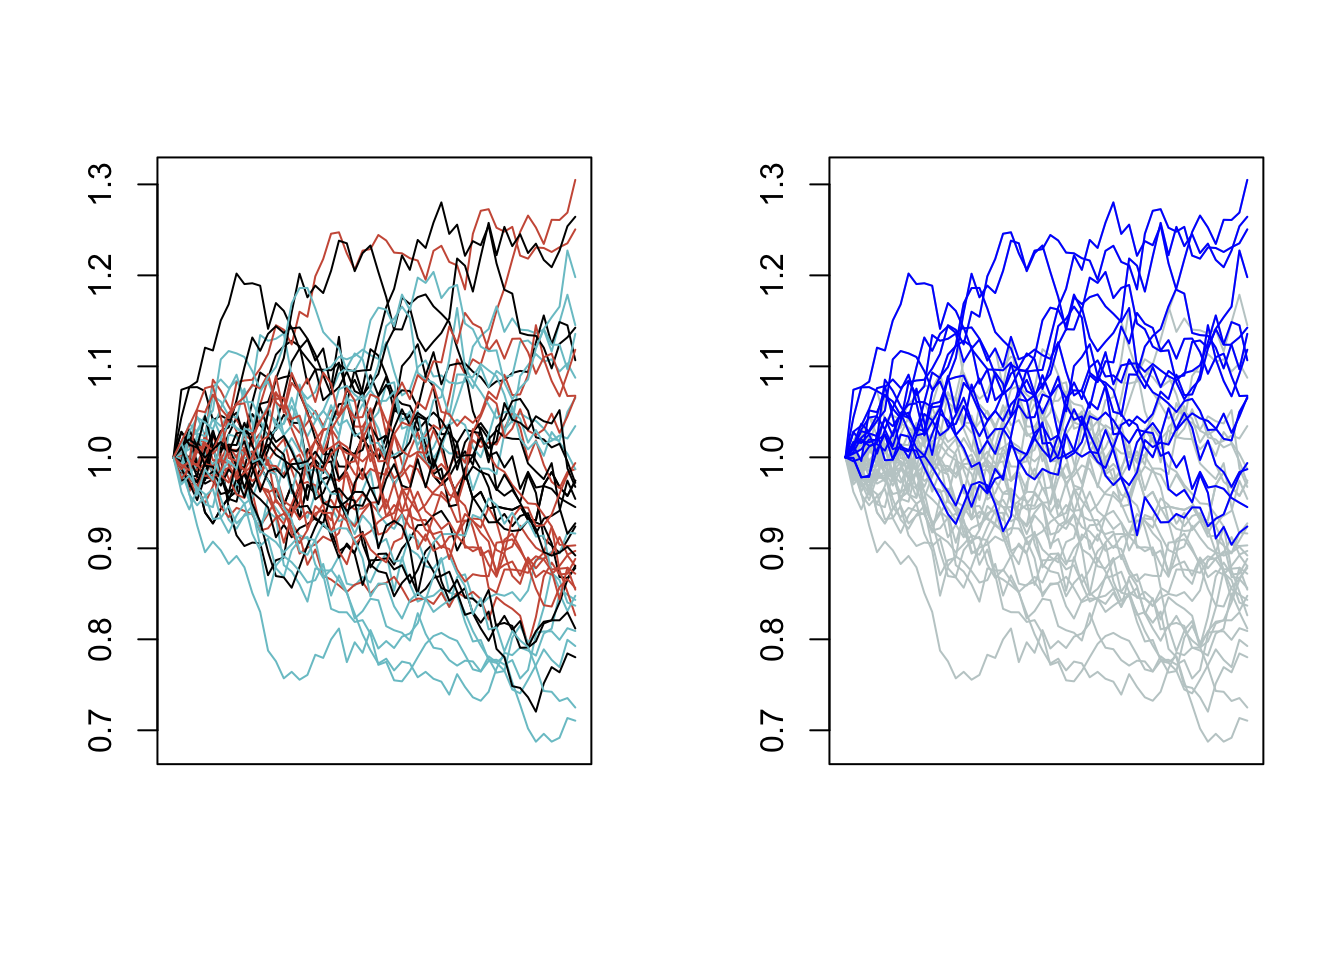
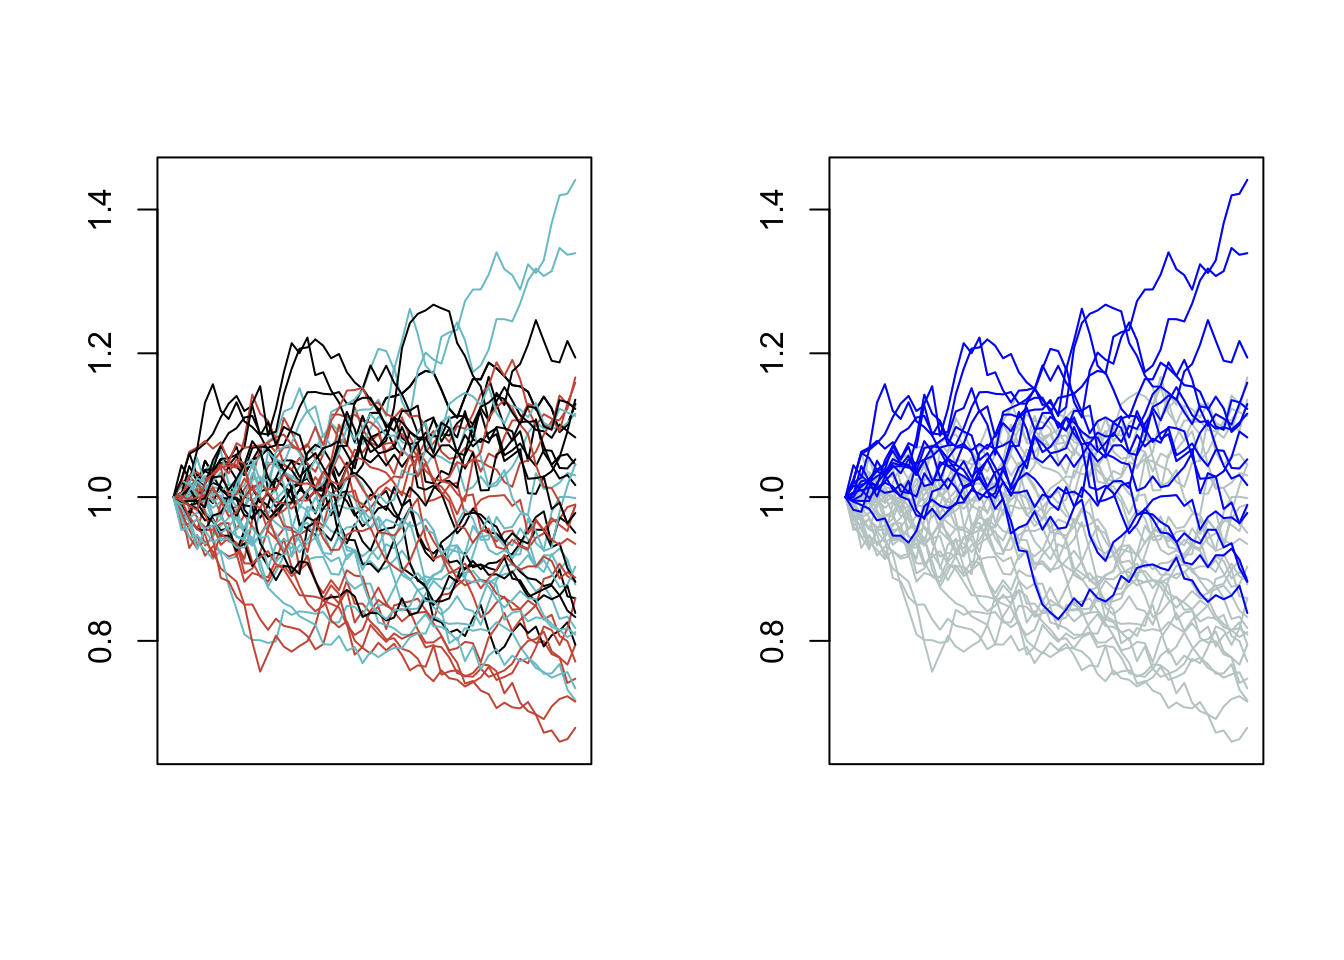
Added payoff
Routine update

diff --git a/docs/payoff.html b/docs/payoff.html
@@ -174,7 +174,7 @@ derived from public sources</a></li>
 diffusions =<span class="st">  </span><span class="kw">aSampleSpotT</span>(<span class="dv">1</span>, <span class="dv">0</span>, <span class="dv">0</span>, <span class="dv">0</span>, <span class="fl">0.2</span>, <span class="dv">1</span>, <span class="dv">50000</span>)
 payoffs =<span class="st"> </span><span class="kw">pmax</span>(<span class="dv">0</span>, diffusions -<span class="st"> </span>strikeK)
 <span class="kw">mean</span>(payoffs)</code></pre></div>
-<pre><code>## [1] 0.07995999</code></pre>
+<pre><code>## [1] 0.08003388</code></pre>
 <p>Comparing the result to the Black Scholes solution:</p>
 <p><span class="math display">\[
     \mathrm C(\mathrm S,\mathrm t)= \mathrm N(\mathrm d_1)\mathrm S - \mathrm N(\mathrm d_2) \mathrm K \mathrm e^{-rt}
@@ -241,29 +241,29 @@ for (i in <span class="dv">2</span>:numSteps)
 Figure 3.1: 2 separate trajectories; Left path ends below the strike and receives a 10% payout, the right path does not pay any. Blue line denotes the strike barrier at 110% of initial spot.
 </p>
 </div>
-<p>Pricing such a product is always similar to that of a call option, except when the option is in the money, it pays the digit coupon instead of the performance of the underlying minus its strike. We see it cost about 3%.</p>
+<p>Pricing this payoff is similar to that of a call option, except when the option is in the money, it pays the digit coupon instead of the performance of the underlying minus its strike. We see it cost about 3%.</p>
 <div class="sourceCode"><pre class="sourceCode r"><code class="sourceCode r">digitK =<span class="st"> </span><span class="fl">1.1</span>
 digitCpn =<span class="st"> </span><span class="fl">0.1</span>
 digitPays =<span class="st"> </span>(diffusions &gt;<span class="st"> </span>digitK)*digitCpn
 <span class="kw">mean</span>(digitPays)</code></pre></div>
-<pre><code>## [1] 0.028064</code></pre>
+<pre><code>## [1] 0.028316</code></pre>
 </div>
 <div id="pdi" class="section level3">
 <h3><span class="header-section-number">3.1.2</span> Put Down and In</h3>
-<p>Like the digital <em>down and in</em> option above, a <em>put down and in</em> option knocks in when an underlying ends below a certain barrier. However, when the condition is satisfied, the put comes into existence and so the payoff is that of a vanilla put option. Therefore we need also need to know the put strike in order to determine the payoff.</p>
-<p>Let’s say we <strong>sell</strong> a 1y <em>put down and in</em> on the same underlying as before, with european (at maturity) down and in barrier 80% and strike 100%. For a change of pace we proceed to the price before visualising what a sample path and its payoff is.</p>
+<p>Like the digital <em>down and in</em> option above, a <em>put down and in</em> option knocks in when an underlying ends below a certain barrier. However, when the condition is satisfied, the put comes into existence and so the payoff is that of a vanilla put option. We therefore need to be given the put strike in order to determine the payoff.</p>
+<p>Let’s say we <strong>sell</strong> a 1y <em>put down and in</em> on the same underlying as before, with european (at maturity) down and in barrier 80% and put strike 100%. For a change of pace we proceed to the price before visualising what a sample path and its payoff is.</p>
 <div class="sourceCode"><pre class="sourceCode r"><code class="sourceCode r">pdiK =<span class="st"> </span><span class="dv">1</span>
 eki80Barrier =<span class="st"> </span><span class="fl">0.8</span>
 pdi80Hit =<span class="st"> </span>diffusions &lt;=<span class="st"> </span>eki80Barrier
 putPays =<span class="st"> </span><span class="kw">pmax</span>(<span class="dv">0</span>, pdiK -<span class="st"> </span>diffusions)
 pdi80Pays =<span class="st"> </span>putPays*<span class="kw">as.double</span>(pdi80Hit)
 <span class="kw">mean</span>(-<span class="dv">1</span> *<span class="st"> </span>pdi80Pays) <span class="co"># price of short pdi with eki = 80% and strike = 100%</span></code></pre></div>
-<pre><code>## [1] -0.04261739</code></pre>
+<pre><code>## [1] -0.04257575</code></pre>
 <p>We will use the convention of a negative premium for investor <strong>receiving</strong> the premium instead of paying the premium.</p>
 <p>If we think of the knock-in feature on a short put as <em>protection</em>, that is the option seller sold a put that will not be in the money unless the underlying has first broken the knock in barrier, then we should expect a <em>put down and in</em> with european barrier at 80% to bring less value than one with barrier at 90%. Both of which has to be cheaper than a straight put, or a put without knock-in feature.</p>
 <div class="sourceCode"><pre class="sourceCode r"><code class="sourceCode r">pdi_comparison =<span class="st"> </span><span class="kw">c</span>(<span class="kw">mean</span>(-<span class="dv">1</span> *<span class="st"> </span>pdi80Pays), <span class="kw">mean</span>(-<span class="dv">1</span> *<span class="st"> </span>pdi90Pays), <span class="kw">mean</span>(-<span class="dv">1</span> *<span class="st"> </span>putPays))
 pdi_comparison</code></pre></div>
-<pre><code>## [1] -0.04261739 -0.06931353 -0.07973939</code></pre>
+<pre><code>## [1] -0.04257575 -0.06940946 -0.07956403</code></pre>
 <p>We see the seller of the different puts receives more if he sold a <em>put down and in</em> with higher knock-in barrier, or when there is no barrier (a put). Looking consistent!</p>
 <p>By the same argument, a <em>put down and in</em> with american (daily close) knock-in observation type costs more than the european type, since there are more opportunities for the product to be knocked in. We delay this comparison on observation frequency to the next section.</p>
 <p>In structured products, puts with knock-in features are very common, since they provide some protection for the investors unless the underlying has severely underperformed.</p>
@@ -313,6 +313,66 @@ Figure 3.3: Left: Paths with knock out at 140%. Right: No knock out feature.
 </div>
 <div id="combinations" class="section level3">
 <h3><span class="header-section-number">3.1.4</span> Combinations</h3>
+<p>Using a combinations of call, put and digital options we could put together an exotic payoff that fits investor’s risk appetite.</p>
+<p>For example, suppose an investor has a view that several underlyings will perform marginally well in the short term, but also thinks that there might be a slight chance of limited underperformance.</p>
+<p>Since the investor holds a bullish view on a basket of underlyings, it is sensible to observe the entire basket but base the performance on the worst performing underlying.</p>
+<p>We can therefore structure a payoff that pays an upside at maturity on the maximum of the worst-of call or a worst-of digit up and in. That is, <span class="math inline">\(Max( digit coupon, perf)\)</span>. If we set the digit strike to be at the money and the digit amount to be 10%, at maturity any marginal upside performance will pay 10% and may potentially lead to larger payouts if the performance exceeds 110%.</p>
+<p>To finance this upside (nothing is free) the investor would have to sell a put. We would want to add protection on the short put by adding a european down and in barrier since we expect there to be a chance of underperformance.</p>
+<table>
+<caption><span id="tab:ben-correltab">Table 3.1: </span>3 correlated underlyings</caption>
+<thead>
+<tr class="header">
+<th></th>
+<th align="right">undl1</th>
+<th align="right">undl2</th>
+<th align="right">undl3</th>
+</tr>
+</thead>
+<tbody>
+<tr class="odd">
+<td>undl1</td>
+<td align="right">1.0</td>
+<td align="right">0.6</td>
+<td align="right">0.6</td>
+</tr>
+<tr class="even">
+<td>undl2</td>
+<td align="right">0.6</td>
+<td align="right">1.0</td>
+<td align="right">0.6</td>
+</tr>
+<tr class="odd">
+<td>undl3</td>
+<td align="right">0.6</td>
+<td align="right">0.6</td>
+<td align="right">1.0</td>
+</tr>
+</tbody>
+</table>
+<p>We assume there are 3 basket of underlyings with their returns well correlated, and all of them have constant annualised volatilities of 25%. Furthermore we assume their drifts are 1% per annum, that is <span class="math inline">\(r - d - q = 0.01\)</span>.</p>
+<div class="sourceCode"><pre class="sourceCode r"><code class="sourceCode r"><span class="kw">set.seed</span>(<span class="dv">1</span>)
+benUndls =<span class="st"> </span><span class="kw">nrow</span>(corr_ben)
+benSteps =<span class="st"> </span><span class="dv">52</span> <span class="co"># weekly</span>
+benTraj =<span class="st"> </span><span class="kw">matrix</span>(<span class="kw">rep</span>(<span class="dv">1</span>, benSteps*benUndls), <span class="dt">nrow =</span> benUndls)
+for (i in <span class="dv">2</span>:benSteps)
+  benTraj[,i] =<span class="st"> </span><span class="kw">corrSpot</span>(benTraj[,i<span class="dv">-1</span>], <span class="fl">0.03</span>, <span class="fl">0.01</span>, <span class="fl">0.01</span>, <span class="fl">0.25</span>, <span class="dv">1</span>/benSteps, corr_ben)</code></pre></div>
+<div class="sourceCode"><pre class="sourceCode r"><code class="sourceCode r">benWoTraj =<span class="st"> </span><span class="kw">apply</span>(benTraj, <span class="dv">2</span>, min)
+<span class="kw">tail</span>(benWoTraj, <span class="dv">1</span>) <span class="co"># worst performance at maturity</span></code></pre></div>
+<pre><code>## [1] 0.9590089</code></pre>
+<div class="figure"><span id="fig:benwo-traj-plot"></span>
+<img src="bookdown-demo_files/figure-html/benwo-traj-plot-1.png" alt="A basket of 3 underlyings (in grey) and the worst-of underlying (in blue)" width="672" />
+<p class="caption">
+Figure 3.4: A basket of 3 underlyings (in grey) and the worst-of underlying (in blue)
+</p>
+</div>
+<p>We see the worst performance at maturity is down around 4%. Because the worst performance did not end at or above the digit strike, there was no coupon paid. The call was also not in the money. However as a saving grace, the put had a knock-in protection and the barrier was not barrier since it required the worst performance to be below 80%.</p>
+<p>For clarify we include the maturity payoff diagram.</p>
+<div class="figure"><span id="fig:benwo-payoffdiag"></span>
+<img src="bookdown-demo_files/figure-html/benwo-payoffdiag-1.png" alt="Payoff diagram of the product at maturity. Worst performance ended at 96%, above the protection barrier so no downside loss" width="672" />
+<p class="caption">
+Figure 3.5: Payoff diagram of the product at maturity. Worst performance ended at 96%, above the protection barrier so no downside loss
+</p>
+</div>
 </div>
 </div>
 <div id="autocallable" class="section level2">

diff --git a/docs/index.html b/docs/index.html
@@ -183,7 +183,7 @@ derived from public sources</a></li>
   sT
 }
 <span class="kw">cat</span>(<span class="st">&quot;Spot after 1 year: &quot;</span>, <span class="kw">aSampleSpotT</span>(<span class="dv">1</span>, <span class="fl">0.04</span>, <span class="fl">0.01</span>, <span class="dv">0</span>, <span class="fl">0.2</span>, <span class="dv">1</span>, <span class="dv">1</span>))</code></pre></div>
-<pre><code>## Spot after 1 year:  1.011507</code></pre>
+<pre><code>## Spot after 1 year:  0.8346366</code></pre>
 <p>If required we may also compute over several consecutive periods to generate a trajectory. If we repeat this process many times we see how the stock diffusion is going to look like.</p>
 <p>Assuming we will drift the stock by 0% p.a., that is market parameters <span class="math inline">\(r - d - q = 0\)</span>, and that it has constant annualised volatility of 20%, Let’s plot several trajectories. See Figure <a href="index.html#fig:several-traj">1.1</a>:</p>
 <div class="sourceCode"><pre class="sourceCode r"><code class="sourceCode r">numSteps =<span class="st"> </span><span class="dv">52</span> <span class="co"># weekly</span>
@@ -191,7 +191,7 @@ oneTraj =<span class="st"> </span><span class="kw">rep</span>(<span class="dv">1
 for (i in <span class="dv">2</span>:numSteps)
   oneTraj[i] =<span class="st"> </span><span class="kw">aSampleSpotT</span>(oneTraj[i<span class="dv">-1</span>], <span class="dv">0</span>, <span class="dv">0</span>, <span class="dv">0</span>, <span class="fl">0.2</span>, <span class="dv">1</span>/numSteps, <span class="dv">1</span>)
 <span class="kw">cat</span>(<span class="st">&quot;First 5 weekly close: &quot;</span>, oneTraj[<span class="dv">1</span>:<span class="dv">5</span>])</code></pre></div>
-<pre><code>## First 5 weekly close:  1 1.016678 0.978485 0.9816785 0.9903895</code></pre>
+<pre><code>## First 5 weekly close:  1 1.013002 0.9780054 0.9733317 0.9640561</code></pre>
 <div class="sourceCode"><pre class="sourceCode r"><code class="sourceCode r"><span class="kw">par</span>(<span class="dt">mfrow =</span> <span class="kw">c</span>(<span class="dv">1</span>, <span class="dv">2</span>))
 <span class="kw">plot</span>(oneTraj, <span class="dt">type =</span> <span class="st">&quot;l&quot;</span>,
      <span class="dt">axes =</span> F, <span class="dt">xlab =</span> <span class="st">&quot;&quot;</span>, <span class="dt">ylab =</span> <span class="st">&quot;&quot;</span>,
@@ -284,26 +284,26 @@ for (i in <span class="dv">2</span>:numSteps)
 <tr class="odd">
 <td>undl1</td>
 <td align="right">1</td>
-<td align="right">1.032174</td>
-<td align="right">1.030158</td>
-<td align="right">1.015808</td>
-<td align="right">1.067203</td>
+<td align="right">0.9895232</td>
+<td align="right">0.9738888</td>
+<td align="right">0.9657227</td>
+<td align="right">1.006794</td>
 </tr>
 <tr class="even">
 <td>undl2</td>
 <td align="right">1</td>
-<td align="right">1.043191</td>
-<td align="right">1.025464</td>
-<td align="right">1.013256</td>
-<td align="right">1.050309</td>
+<td align="right">1.0026743</td>
+<td align="right">0.9866878</td>
+<td align="right">1.0021548</td>
+<td align="right">1.046060</td>
 </tr>
 <tr class="odd">
 <td>undl3</td>
 <td align="right">1</td>
-<td align="right">1.051630</td>
-<td align="right">1.060456</td>
-<td align="right">1.042187</td>
-<td align="right">1.080056</td>
+<td align="right">0.9978140</td>
+<td align="right">0.9710374</td>
+<td align="right">0.9915827</td>
+<td align="right">1.042995</td>
 </tr>
 </tbody>
 </table>
@@ -331,13 +331,13 @@ for (i in <span class="dv">2</span>:numSteps)
 <p>To make it obvious that a worst-of “underlying” does not have to be the same underlying at different point of time, we chose to create a much lower correlated basket of underlyings. We also chose to fix the annualised volatility of these underlyings constant at 15%.</p>
 <p>In this stylised result we see how the worst-of underlying may differ over time.</p>
 <div class="sourceCode"><pre class="sourceCode r"><code class="sourceCode r"><span class="kw">print</span>(corrTraj2[,<span class="dv">1</span>:<span class="dv">5</span>]) <span class="co"># First 5 weekly close of 3 less correlated undls</span></code></pre></div>
-<pre><code>##      [,1]      [,2]      [,3]      [,4]      [,5]
-## [1,]    1 1.0286373 1.0189721 1.0173478 1.0173360
-## [2,]    1 1.0040870 0.9794286 0.9595675 0.9806272
-## [3,]    1 0.9832411 0.9791032 1.0225176 1.0091148</code></pre>
+<pre><code>##      [,1]      [,2]      [,3]      [,4]     [,5]
+## [1,]    1 0.9658091 1.0074175 1.0173769 1.004773
+## [2,]    1 1.0100198 0.9965954 0.9945832 1.032681
+## [3,]    1 1.0192428 1.0423842 1.0661063 1.074612</code></pre>
 <div class="sourceCode"><pre class="sourceCode r"><code class="sourceCode r">woTraj =<span class="st"> </span><span class="kw">apply</span>(corrTraj2, <span class="dv">2</span>, min)
 <span class="kw">print</span>(woTraj[<span class="dv">1</span>:<span class="dv">5</span>]) <span class="co"># First 5 weekly close of the worst &quot;underlying&quot;</span></code></pre></div>
-<pre><code>## [1] 1.0000000 0.9832411 0.9791032 0.9595675 0.9806272</code></pre>
+<pre><code>## [1] 1.0000000 0.9658091 0.9965954 0.9945832 1.0047731</code></pre>
 <p>Let’s plot one sample of all underlying paths. On the right we overlay the worst-of “underlying” in blue while greying out the actual underlying paths. See Figure <a href="index.html#fig:wo-traj-plot">1.3</a>:</p>
 <div class="sourceCode"><pre class="sourceCode r"><code class="sourceCode r"><span class="kw">par</span>(<span class="dt">mfrow =</span> <span class="kw">c</span>(<span class="dv">1</span>, <span class="dv">2</span>))
 <span class="kw">plot</span>(corrTraj2[<span class="dv">1</span>,], <span class="dt">type =</span> <span class="st">&quot;l&quot;</span>,
@@ -369,13 +369,13 @@ Figure 1.3: A basket of 3 underlyings (in grey) and the worst-of underlying (in 
 <p>Having seen a worst-of <em>underlying</em>, there is no reason why we cannot have a best-of version.</p>
 <p>Unlike the worst-of call option, a best-of call is more expensive than the average of call. However, if you have a bearish view, buying a best-of put is much more affordable. Likewise, <em>selling</em> a best-of call brings the investor much more premium.</p>
 <div class="sourceCode"><pre class="sourceCode r"><code class="sourceCode r"><span class="kw">print</span>(corrTraj2[,<span class="dv">1</span>:<span class="dv">5</span>]) <span class="co"># First 5 weekly close of 3 correlated undls</span></code></pre></div>
-<pre><code>##      [,1]      [,2]      [,3]      [,4]      [,5]
-## [1,]    1 1.0286373 1.0189721 1.0173478 1.0173360
-## [2,]    1 1.0040870 0.9794286 0.9595675 0.9806272
-## [3,]    1 0.9832411 0.9791032 1.0225176 1.0091148</code></pre>
+<pre><code>##      [,1]      [,2]      [,3]      [,4]     [,5]
+## [1,]    1 0.9658091 1.0074175 1.0173769 1.004773
+## [2,]    1 1.0100198 0.9965954 0.9945832 1.032681
+## [3,]    1 1.0192428 1.0423842 1.0661063 1.074612</code></pre>
 <div class="sourceCode"><pre class="sourceCode r"><code class="sourceCode r">boTraj =<span class="st"> </span><span class="kw">apply</span>(corrTraj2, <span class="dv">2</span>, max)
 <span class="kw">print</span>(woTraj[<span class="dv">1</span>:<span class="dv">5</span>]) <span class="co"># First 5 weekly close of the worst &quot;underlying&quot;</span></code></pre></div>
-<pre><code>## [1] 1.0000000 0.9832411 0.9791032 0.9595675 0.9806272</code></pre>
+<pre><code>## [1] 1.0000000 0.9658091 0.9965954 0.9945832 1.0047731</code></pre>
 <p>Again, we see there is no need for the best-of “underlying” to be the same underlying in the basket from start to end of the product tenor. See Figure <a href="index.html#fig:bo-traj-plot">1.4</a>:</p>
 <div class="sourceCode"><pre class="sourceCode r"><code class="sourceCode r"><span class="kw">par</span>(<span class="dt">mfrow =</span> <span class="kw">c</span>(<span class="dv">1</span>, <span class="dv">2</span>))
 <span class="kw">plot</span>(corrTraj2[<span class="dv">1</span>,], <span class="dt">type =</span> <span class="st">&quot;l&quot;</span>,

diff --git a/docs/volsurf.html b/docs/volsurf.html
@@ -171,13 +171,6 @@ derived from public sources</a></li>
 <p>Exotic payoffs can be very sensitive to volatility. The existence of a term and skew structure on the volatility surface implies that an underlying is regarded as having <em>different</em> volatility at different spot or time. The sensitivity to volatility means that our estimation of the price needs to incorporate the entire surface as an input.</p>
 <p>Before thinking about the implications of this, we should provide means of producing the surface. One way is to use the market data of option prices on an underlying to reconstruct the implied volatility surface. Below we demostrate how to construct the SPX implied volatility surface using option prices from CBOE.</p>
 <p>CBOE<a href="http://www.cboe.com/delayedquote/quote-table-download" class="uri">http://www.cboe.com/delayedquote/quote-table-download</a> provides downloading of delayed option quotes. If we enter SPX as the index ticker we can obtain a table that looks like this:</p>
-<pre><code>##                             Spec   PBid   PAsk CP Type
-## 1   17 Feb 500.00 (SPXW1728B500) 1864.8 1868.5  C Euro
-## 2 17 Feb 500.00 (SPXW1728B500-E) 1864.8 1868.5  C Euro
-## 3   17 Feb 600.00 (SPXW1728B600) 1764.8 1768.5  C Euro
-## 4 17 Feb 600.00 (SPXW1728B600-E) 1764.8 1768.5  C Euro
-## 5   17 Feb 700.00 (SPXW1728B700) 1664.8 1668.5  C Euro
-## 6 17 Feb 700.00 (SPXW1728B700-E) 1664.8 1668.5  C Euro</code></pre>
 <p>The data contains enough information to reproduce an implied volatility that leads to the quoted price of an option.</p>
 <div id="implied-vol-surface" class="section level2">
 <h2><span class="header-section-number">2.1</span> Implied vol surface</h2>
@@ -199,7 +192,6 @@ TTM &lt;-<span class="st"> </span><span class="kw">as.numeric</span>(<span class
 <span class="kw">persp</span>(s$x, TTM, s$z *<span class="st"> </span><span class="dv">100</span>, <span class="dt">col =</span> color[facetcol], <span class="dt">xlab =</span> <span class="st">&quot;</span><span class="ch">\n</span><span class="st">Moneyness&quot;</span>,
       <span class="dt">ylab =</span> <span class="st">&quot;</span><span class="ch">\n</span><span class="st">Expiry (Yr)&quot;</span>, <span class="dt">zlab =</span> <span class="st">&quot;</span><span class="ch">\n</span><span class="st">Volatility (%)&quot;</span>, <span class="dt">theta =</span> <span class="dv">40</span>,
       <span class="dt">phi =</span> <span class="dv">25</span>, <span class="dt">ticktype =</span> <span class="st">&quot;detailed&quot;</span>)</code></pre></div>
-<p><img src="bookdown-demo_files/figure-html/SPXdata_IV_plot-1.png" width="672" /></p>
 <p>From the plot we see the volatility is moving in the opposite direction of <em>moneyness</em>. <em>Moneyness</em> was computed as the strike price divided by the spot price. We can understand also interpret this as the implied volatility being higher when strike price is lower than the spot price.</p>
 <p>However this is not always true, there other sections of the surface (further strikes and expiries) where the curvature is differently shaped. That is, in far out (or in) of the region shown above, the shape can be upward sloping instead of downward sloping.</p>
 </div>
